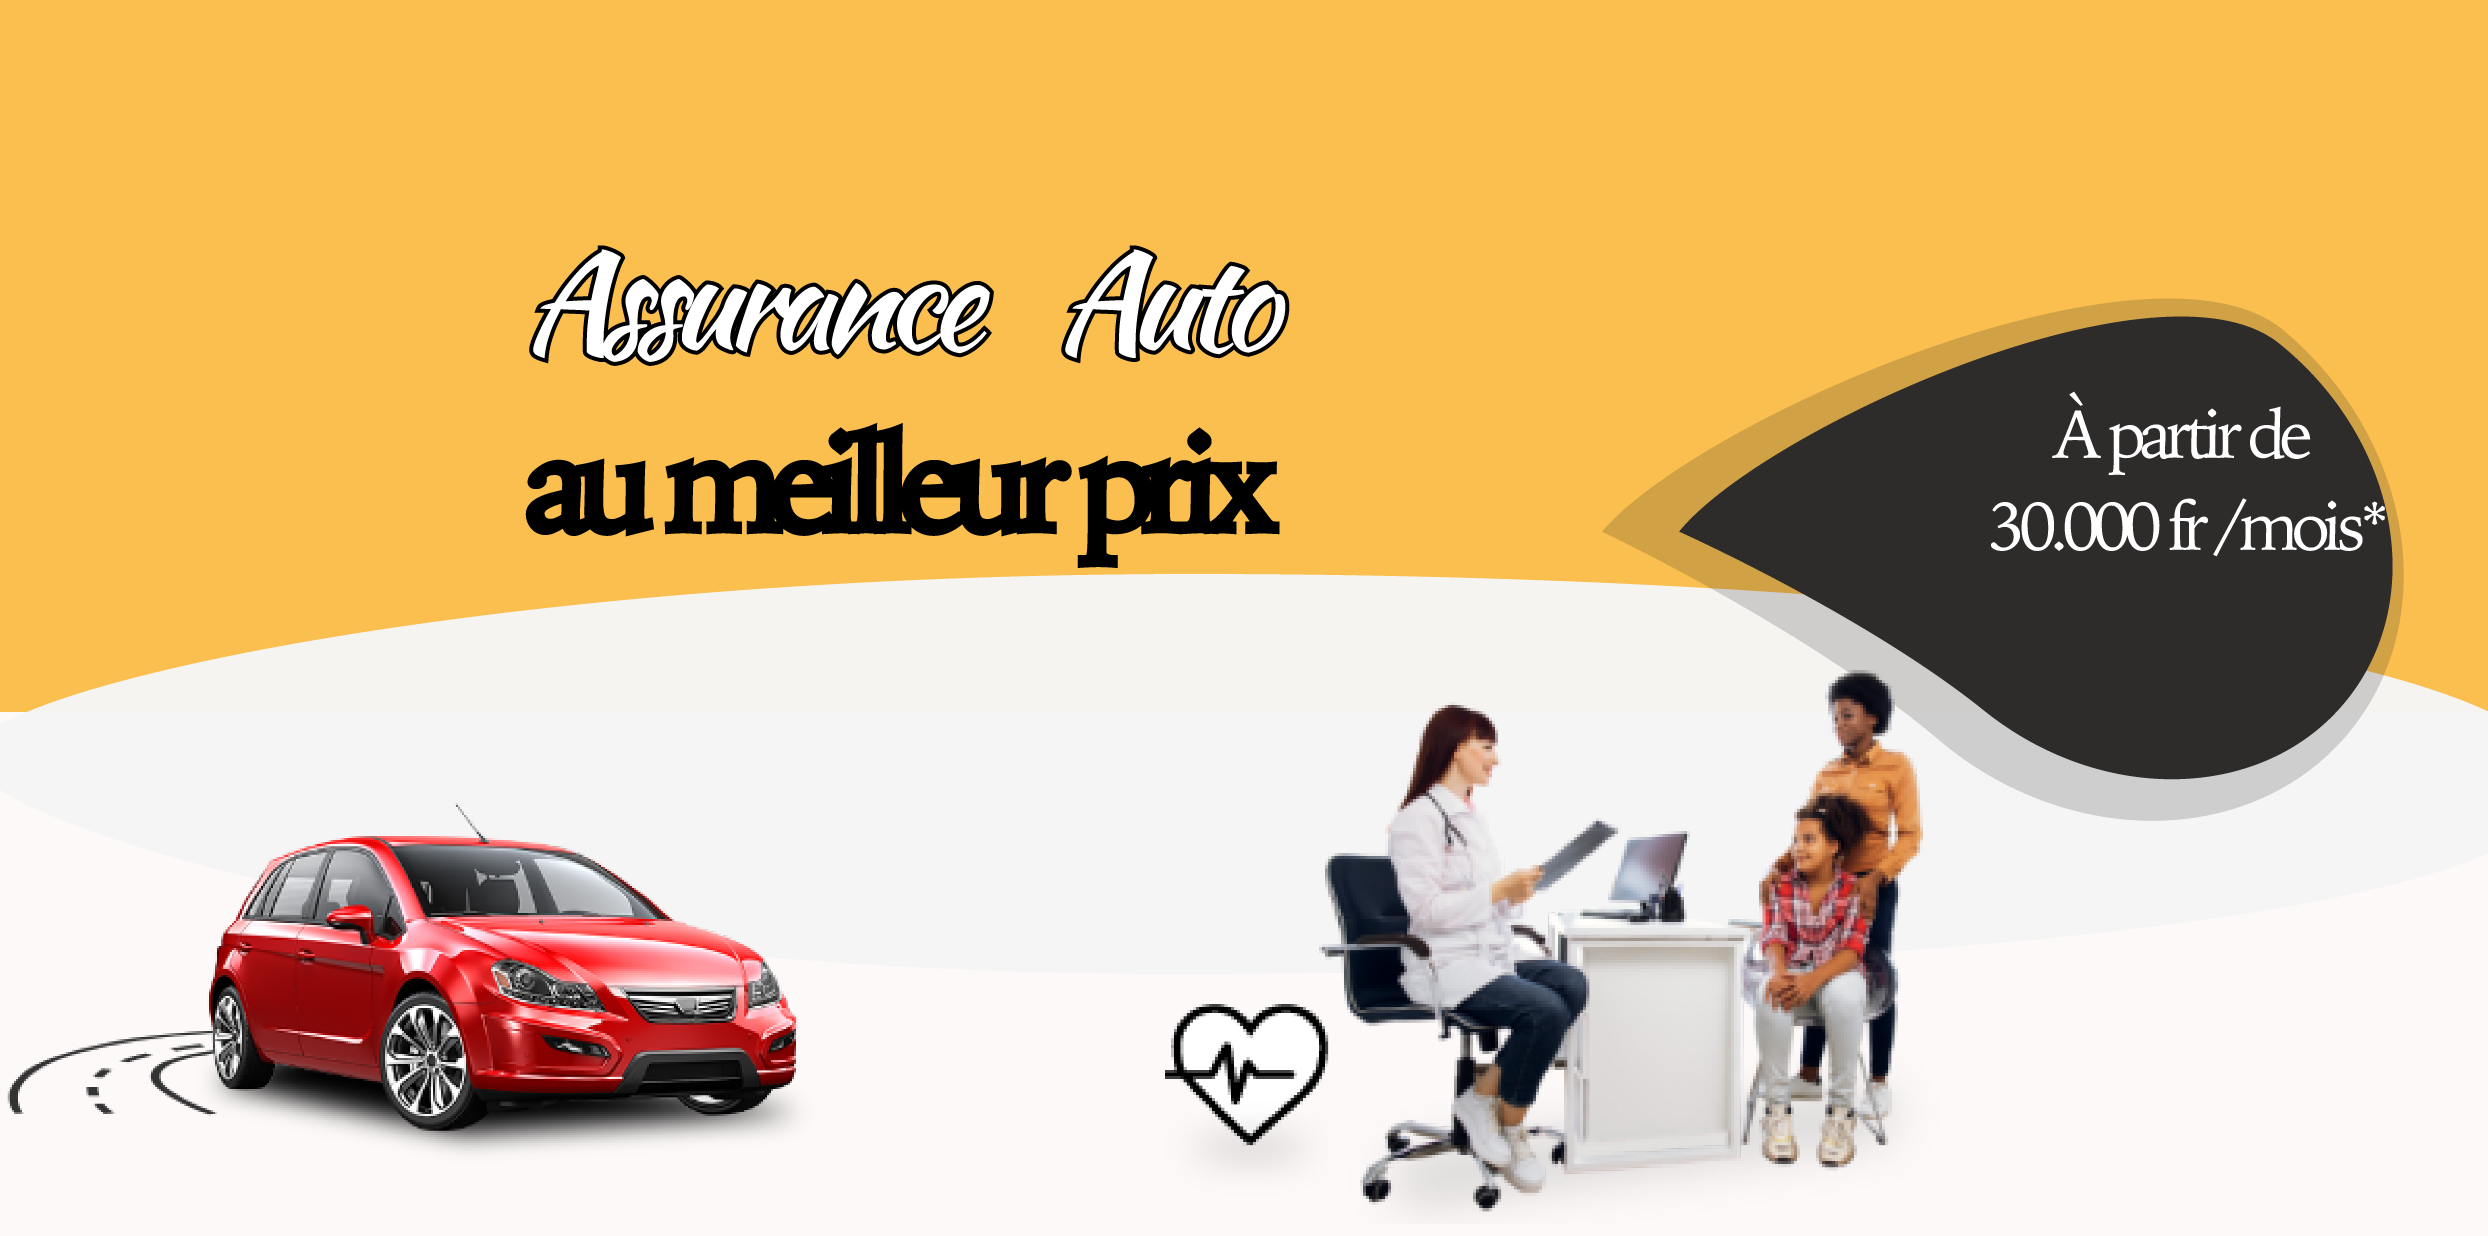
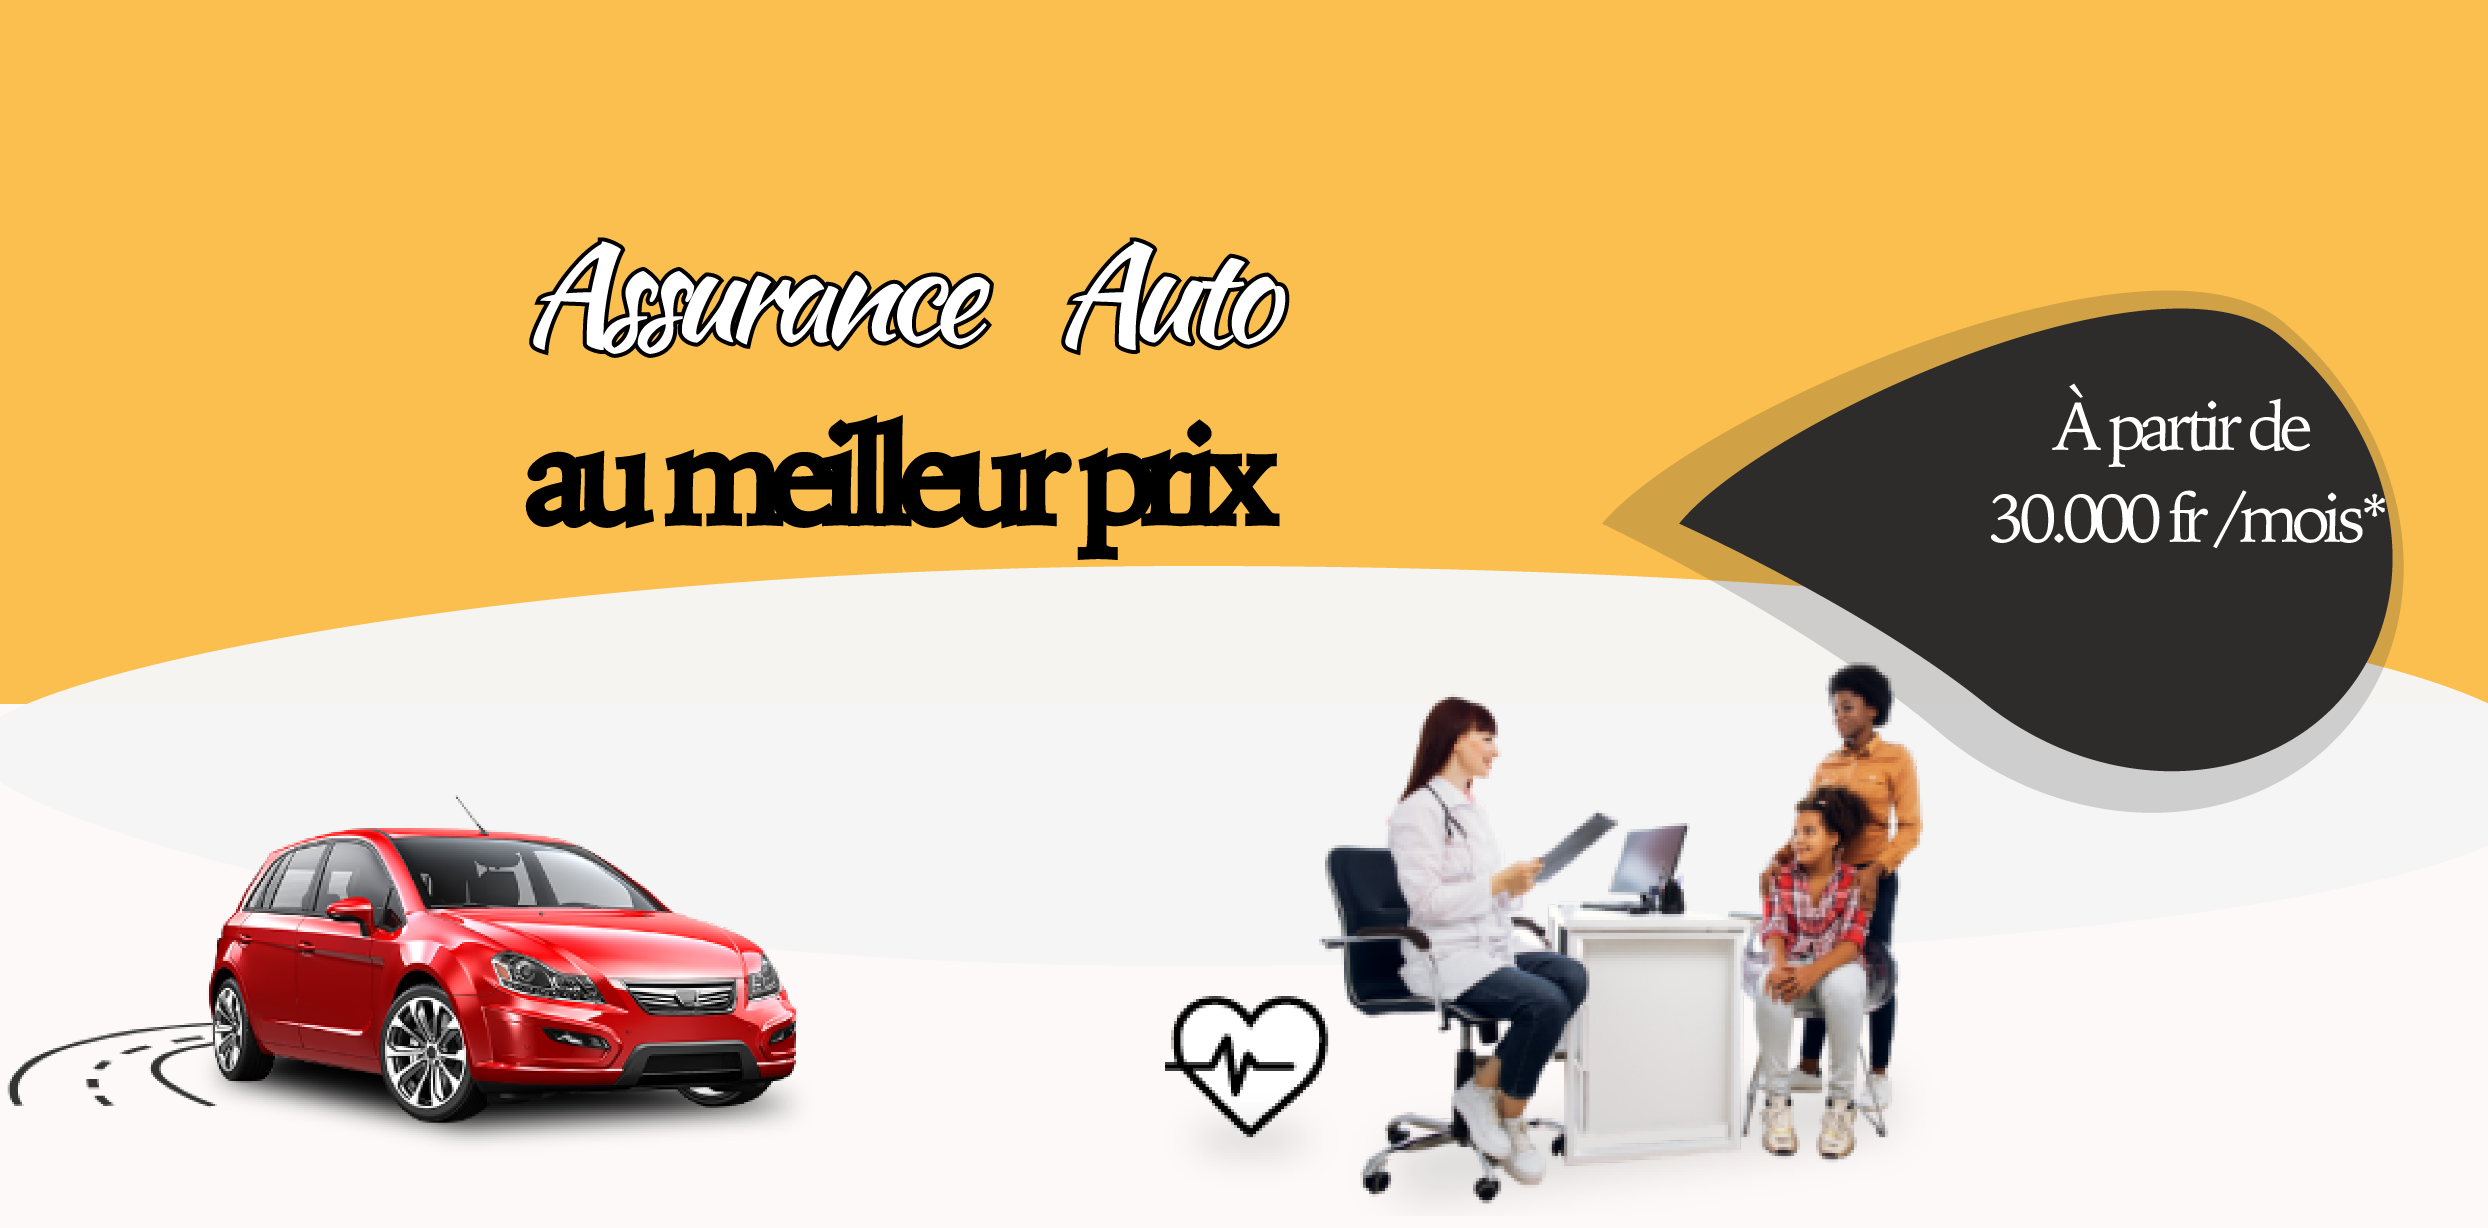
ok

diff --git a/index.html b/index.html
@@ -9,6 +9,9 @@
     <link rel="stylesheet" href="/CSS/style.css">
     <link rel="preconnect" href="https://fonts.googleapis.com">
     <link rel="preconnect" href="https://fonts.gstatic.com" crossorigin>
+    <link rel="preconnect" href="https://fonts.googleapis.com">
+<link rel="preconnect" href="https://fonts.gstatic.com" crossorigin>
+<link href="https://fonts.googleapis.com/css2?family=Kaushan+Script&display=swap" rel="stylesheet">
      <link href="https://fonts.googleapis.com/css2?family=Inter&display=swap" rel="stylesheet">
    
     <title>auto assurance</title>
@@ -21,11 +24,15 @@
             <i class='bx bx-menu'></i>
         </div>
            <div class="logo">
-                <a href="#"><span class="logAuto">aa</span> assurance auto</a>
+                <a href="#"><i class='bx bx-menu'></i><span class="logAuto">aa</span> assurance auto</a>
                 </div>
+                <div class="user">
+                  <img src="/img/user (1).png"  width="20px"   alt=""> 
+                </div>
+                <div>
                 <div class="menu">
                     <div class="top">
-                     <span class="fermer">fermer <i class='bx bx-x'></i></span>
+                     <span class="fermer">fermer </span>
                     </div>
                     <ul class="nav-list d-flex">
                         <li class="nav-item">
@@ -41,13 +48,30 @@
                           <a href="#" class="nav-link">Espace client</a>
                         </li>
                     </ul>
-                </div>
+                </div>     
               </div>
             </nav>
+            <div class="textAutoGr"> 
+              <h1 class="txtWith">Assurance  Auto </h1>
+              <h2> au meilleur prix</h2>
+            </div>
+    
+           <div class="circle">
+            <h4>À partir de 30.000 fr /mois*</h4>
+           </div>
+           
      </header>
-     <section>
-        <h1>Assurance  Auto au meilleur prix</h1>
-        <h4>À partir de 30.000 fr /mois*</h4>
+     <section class="premierSET">
+      <div class="section1">
+        <div class="imgP1" id="imgone">
+          <img src="/img/auto_new_v2.webp" alt="auto">
+        </div>
+       <div class="imgP2" id="imgtwo">
+        <img src="/img/mutuelle.webp" alt="santa">
+       </div>
+      </div>
+        
+        
         <h4>Devis auto</h4>
         <h4>devis santé</h4>
         <h3>vous étes déjà client?</h3>

diff --git a/CSS/style.css b/CSS/style.css
@@ -1,11 +1,18 @@
 body{
-    background: #e9e6e0;
+    background: #fff;
     font-family: Georgia, 'Times New Roman', Times, serif Times, serif;
     font-size: 14px;
     /*color: rgba(0, 0, 0, 0.6);*/
     margin: O;
     padding: 0;
     line-height: 1.3;  
+}
+nav{
+  position: relative;
+  display: flex;
+  align-items: center;
+  
+  
 }
 
 .container{
@@ -21,13 +28,62 @@ body{
         
      }
 
+     .user{
+        width: 20px;
+        float: right;
+     }
+
      .header{
-        background: url(/img/img2.png);
-        height: 600px; 
-        left: 0;
-        right: 0;
-       
+        background-color: #F8AB16;
+        object-fit: cover;
+        height: 500px;
+        clip-path: polygon(50% 0, 100% 0, 100% 35%, 100% 83%, 85% 75%, 55% 72%, 13% 76%, 0 83%, 0% 35%, 0 0);
     }
+
+    .bx-menu{
+        width: 70px;
+       margin-left: 10px;
+   }
+
+    .textAutoGr{
+        padding-top: 100px;
+        padding-left: 50px;
+       
+        
+    }
+
+    .circle{
+        float: right;
+        padding-top: 30px;
+        
+    }
+    /*Les images pour la section1*/
+
+    .imgP1 {
+        float: left;
+        width: auto;
+
+    }
+
+    .imgP2{
+        float: left;
+        padding-left: 10px;
+        width: 300px;
+    }
+        
+
+
+    /*.maImge{
+        height: 10px;
+        width: 100px;
+        object-fit: cover;
+        object-position: center;
+        top: 0;
+    }*/
+
+    /*.header img{
+        justify-content: center;
+    }*/
 
     ul li  a { 
         text-decoration: none;
@@ -73,7 +129,7 @@ body{
     .logo{
         font-weight: 700;
         font-size: 2rem;
-        padding: 1rem 10rem;
+        padding: 1rem 2rem;
         
     }
 
@@ -96,6 +152,13 @@ body{
         align-items: center;
         justify-content: center;
         font-size: 40px;
+    }
+
+    .txtWith{
+        font-family: 'Kaushan Script', cursive;
+        font-size: 67px;
+        top: 15px;
+        color: #fbfaf9;
     }
 
     /*.footer{
